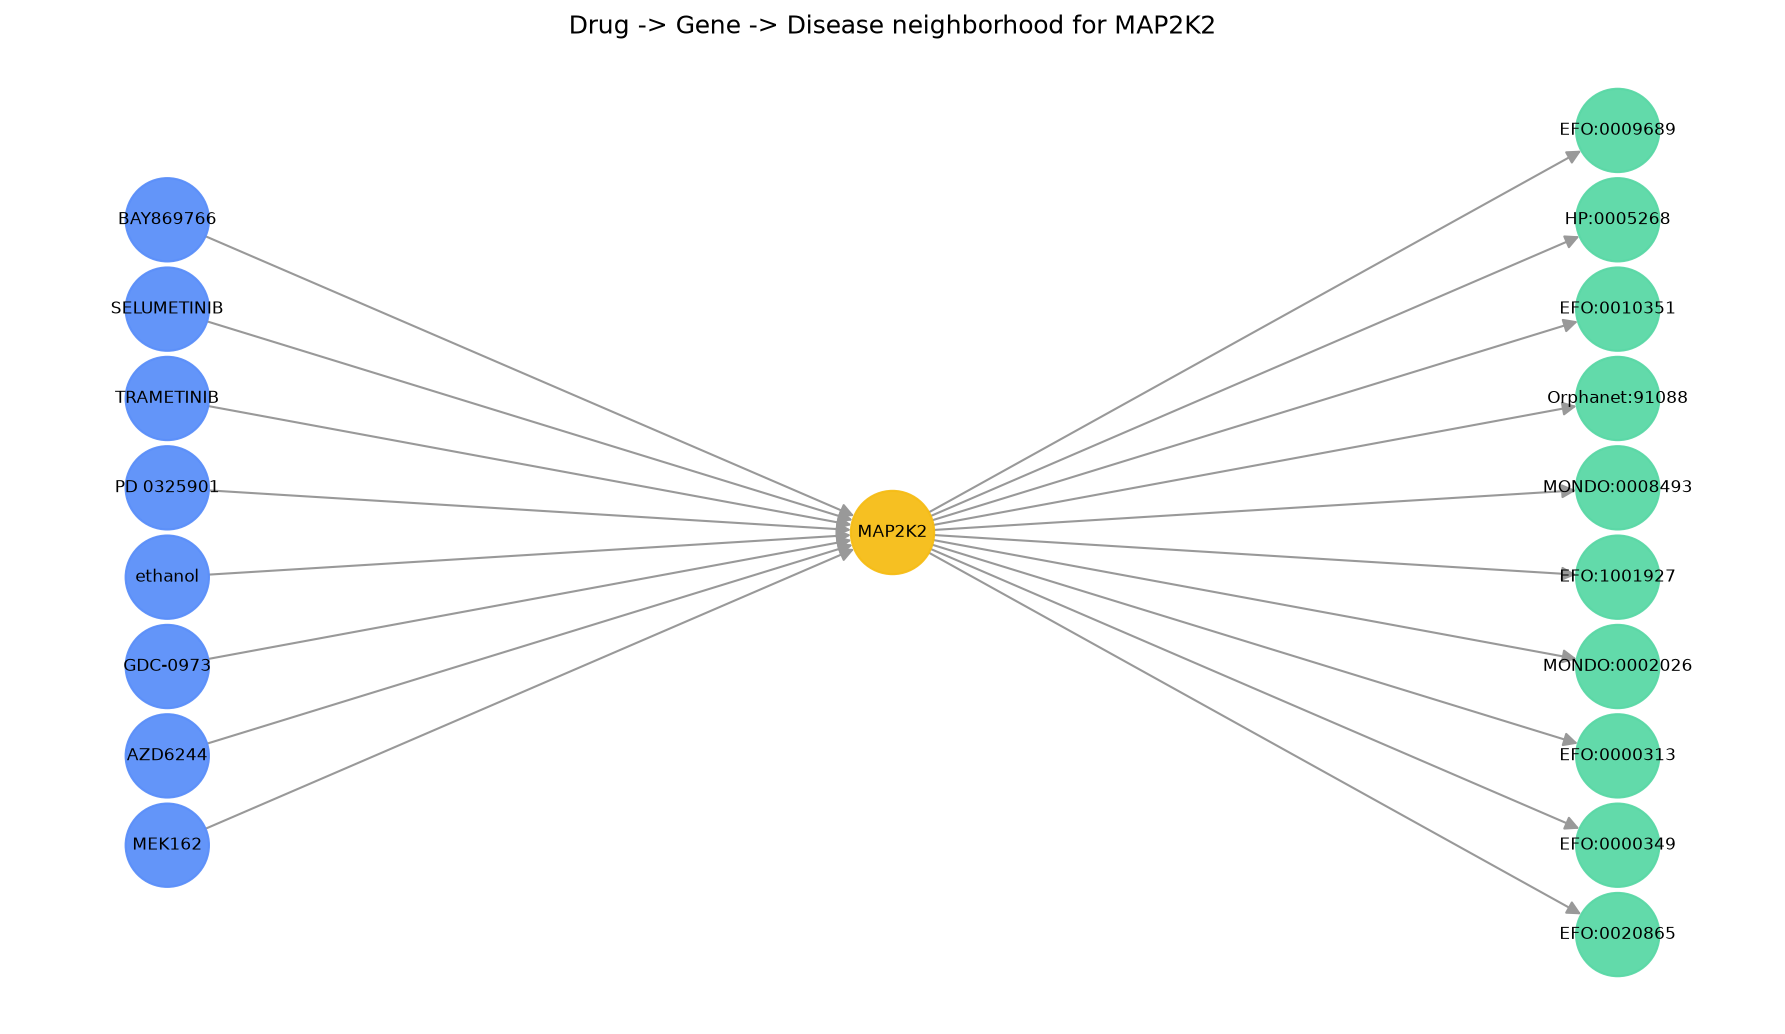
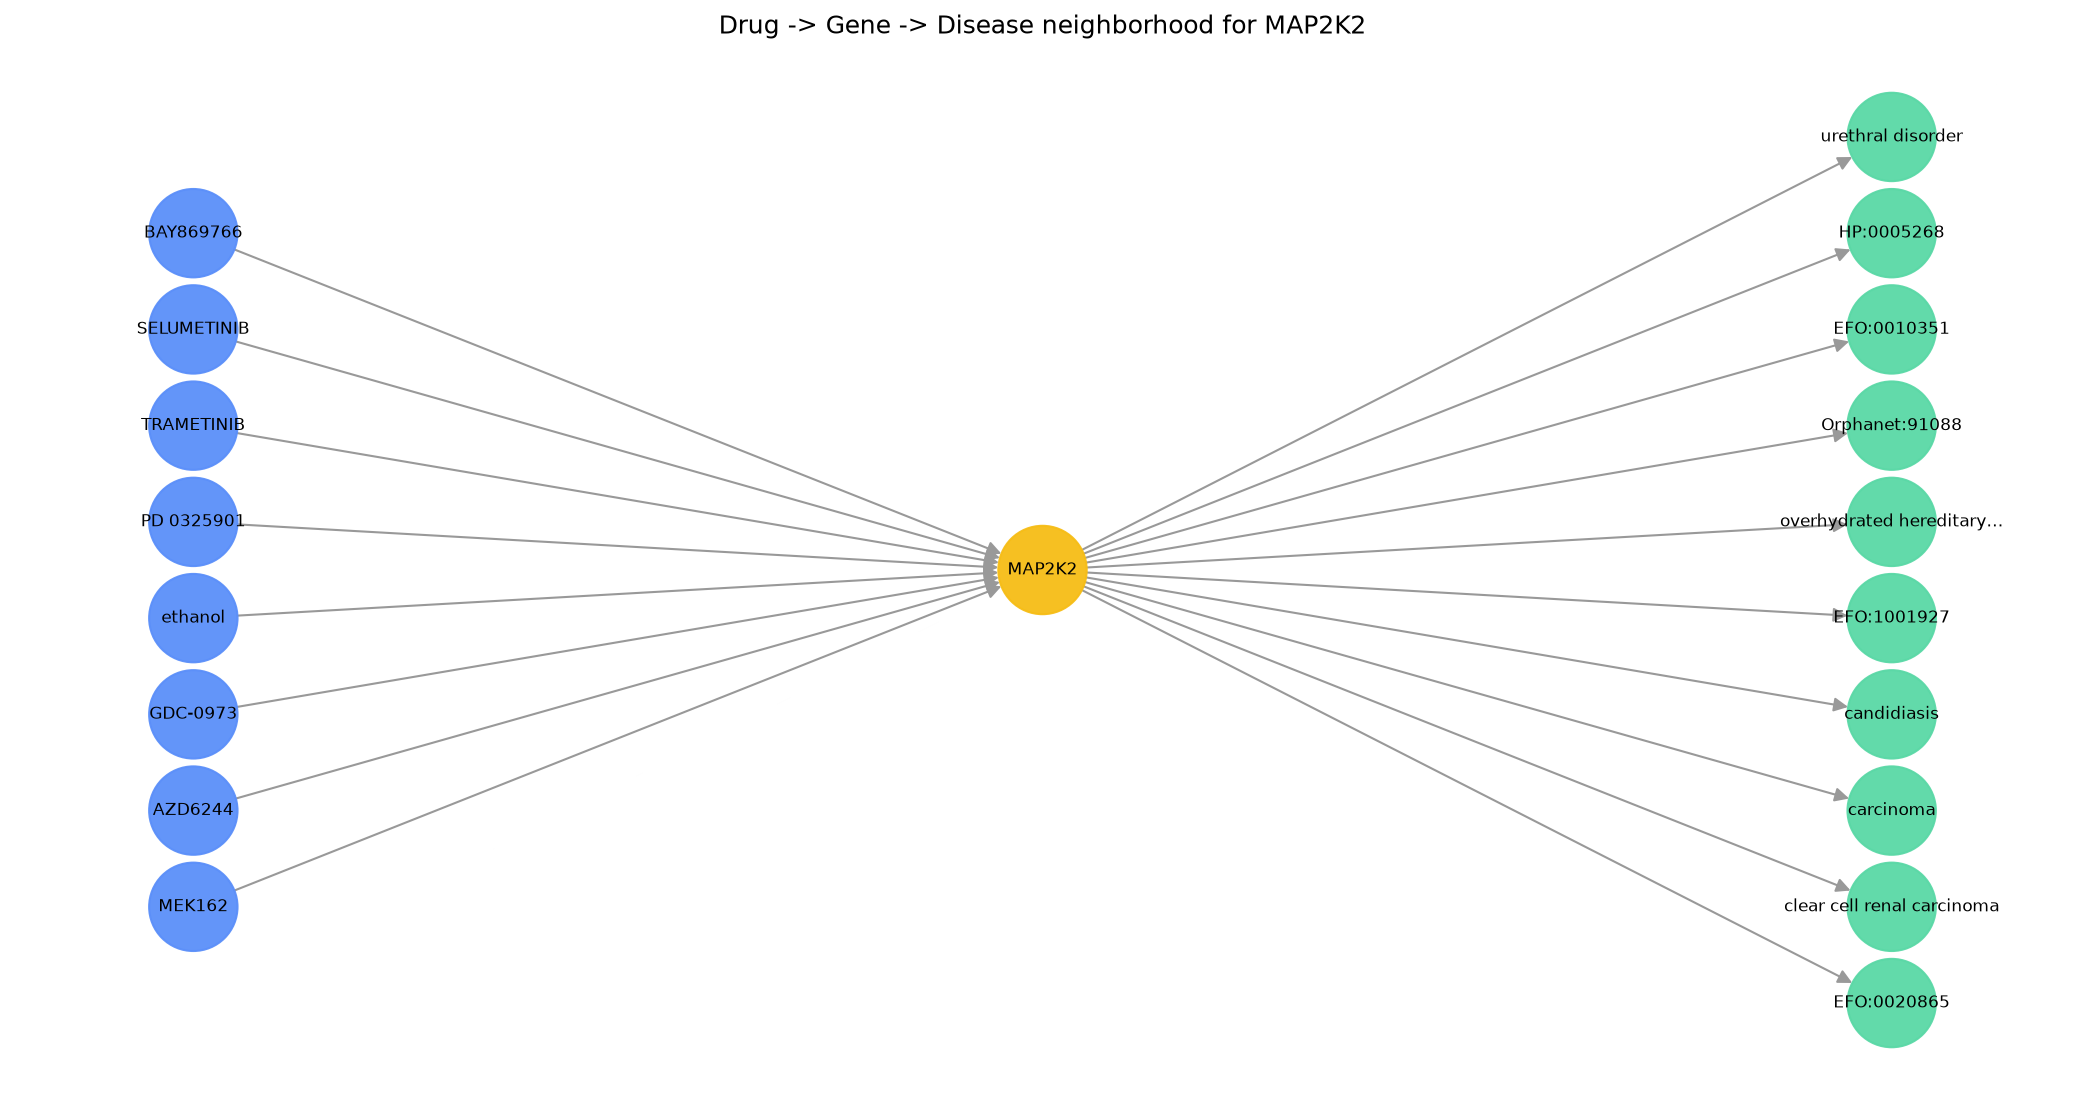
adjust subgraph to include disease names

diff --git a/src/visualize_subgraph.py b/src/visualize_subgraph.py
@@ -5,6 +5,9 @@ Draw the drug -> gene -> disease neighborhood for one gene from the generated ed
 and save it as a PNG in figures/. This makes the connected structure visible: drugs on
 the left, the anchor gene in the middle, diseases on the right.
 
+Disease labels come from output/nodes.csv (MONDO names after normalization/enrichment).
+Unmapped ids (where name equals the CURIE) are shown with their ontology prefix.
+
 Run from the project root, for example:
   python src/visualize_subgraph.py --gene NCBIGene:6416
   python src/visualize_subgraph.py --gene NCBIGene:6416 --max-diseases 10 --max-drugs 8
@@ -14,29 +17,50 @@ NCBIGene:6416 is MAP2K2 (MEK2), a well-connected gene in the sample.
 
 import argparse
 import os
-import pandas as pd
-import networkx as nx
+import textwrap
+
 import matplotlib
 matplotlib.use("Agg")  # no display needed; write straight to file
 import matplotlib.pyplot as plt
+import networkx as nx
+import pandas as pd
 
 EDGES = "output/edges.csv"
+NODES = "output/nodes.csv"
 FIG_DIR = "figures"
 
 
 def short(label, keep_prefix=False):
-    """Trim the source prefix so labels read cleanly.
-
-    DRUG_NAME:TRAMETINIB -> TRAMETINIB. For diseases the ontology prefix is meaningful
-    (EFO vs MONDO), so keep_prefix=True leaves EFO:0020865 intact.
-    """
+    """Trim the source prefix so labels read cleanly."""
     if keep_prefix:
         return label
     return label.split(":", 1)[1] if ":" in label else label
 
 
+def load_node_names():
+    nodes = pd.read_csv(NODES, dtype=str)
+    return dict(zip(nodes["id"], nodes["name"].fillna(nodes["id"])))
+
+
+def display_label(node_id, node_names, kind, max_len=32):
+    """Prefer human-readable names from nodes.csv; fall back to CURIE form."""
+    name = node_names.get(node_id, node_id)
+    if kind == "disease":
+        if name and name != node_id:
+            label = name
+        else:
+            label = short(node_id, keep_prefix=True)
+    else:
+        label = name if name else short(node_id)
+
+    if len(label) > max_len:
+        return textwrap.shorten(label, width=max_len, placeholder="…")
+    return label
+
+
 def build(gene, max_drugs, max_diseases, gene_name):
     edges = pd.read_csv(EDGES, dtype=str)
+    node_names = load_node_names()
 
     drug_edges = edges[(edges["object"] == gene) &
                        (edges["knowledge_source"] == "DGIdb")].head(max_drugs)
@@ -47,39 +71,41 @@ def build(gene, max_drugs, max_diseases, gene_name):
         raise SystemExit(f"No edges found for {gene}. Check the id against output/edges.csv.")
 
     g = nx.DiGraph()
-    center = gene_name or short(gene)
-    g.add_node(center, kind="gene")
+    center = gene_name or display_label(gene, node_names, "gene")
+    g.add_node(gene, kind="gene", label=center)
 
     pos = {}
-    pos[center] = (0, 0)
+    pos[gene] = (0, 0)
 
     # drugs on the left
     drugs = list(drug_edges["subject"])
     for i, (_, row) in enumerate(drug_edges.iterrows()):
-        d = short(row["subject"])
-        g.add_node(d, kind="drug")
-        g.add_edge(d, center, label=row["source_relationship"])
+        drug_id = row["subject"]
+        g.add_node(drug_id, kind="drug",
+                   label=display_label(drug_id, node_names, "drug"))
+        g.add_edge(drug_id, gene, label=row["source_relationship"])
         y = (i - (len(drugs) - 1) / 2) * 1.0
-        pos[d] = (-3, y)
+        pos[drug_id] = (-3, y)
 
     # diseases on the right
     diseases = list(dis_edges["object"])
     for i, (_, row) in enumerate(dis_edges.iterrows()):
-        ds = short(row["object"], keep_prefix=True)
-        g.add_node(ds, kind="disease")
-        g.add_edge(center, ds, label="associated_with")
+        disease_id = row["object"]
+        g.add_node(disease_id, kind="disease",
+                   label=display_label(disease_id, node_names, "disease"))
+        g.add_edge(gene, disease_id, label="associated_with")
         y = (i - (len(diseases) - 1) / 2) * 1.0
-        pos[ds] = (3, y)
+        pos[disease_id] = (3, y)
 
-    # colors by kind
+    labels = {n: g.nodes[n]["label"] for n in g.nodes}
     color = {"drug": "#5B8FF9", "gene": "#F6BD16", "disease": "#5AD8A6"}
     node_colors = [color[g.nodes[n]["kind"]] for n in g.nodes]
 
-    plt.figure(figsize=(12, max(6, 0.5 * max(len(drugs), len(diseases)) + 2)))
-    nx.draw_networkx_nodes(g, pos, node_color=node_colors, node_size=1600, alpha=0.95)
+    plt.figure(figsize=(14, max(6, 0.55 * max(len(drugs), len(diseases)) + 2)))
+    nx.draw_networkx_nodes(g, pos, node_color=node_colors, node_size=1800, alpha=0.95)
     nx.draw_networkx_edges(g, pos, arrows=True, arrowsize=14, edge_color="#999999",
-                           node_size=1600)
-    nx.draw_networkx_labels(g, pos, font_size=8)
+                           node_size=1800)
+    nx.draw_networkx_labels(g, pos, labels=labels, font_size=8)
 
     plt.title(f"Drug -> Gene -> Disease neighborhood for {center}", fontsize=12)
     plt.axis("off")
@@ -88,6 +114,7 @@ def build(gene, max_drugs, max_diseases, gene_name):
     os.makedirs(FIG_DIR, exist_ok=True)
     out = os.path.join(FIG_DIR, f"subgraph_{short(gene)}.png")
     plt.savefig(out, dpi=150, bbox_inches="tight")
+    plt.close()
     print(f"wrote {out}")
     print(f"drugs shown: {len(drugs)}, diseases shown: {len(diseases)}")
 

diff --git a/README.md b/README.md
@@ -6,7 +6,7 @@ interoperable biomedical knowledge graphs. The interesting part here are
 the mapping decisions: where a source does not map cleanly onto Biolink, those judgment
 calls are documented in [mappings/mapping_decisions.md](mappings/mapping_decisions.md).
 
-   ![Drug-gene-disease neighborhood for MAP2K2](figures/subgraph_6416.png)
+   ![Drug-gene-disease neighborhood for MAP2K2 (disease names from MONDO enrichment)](figures/subgraph_6416.png)
 
 ## Demo
 
@@ -63,7 +63,10 @@ biolink_source_mapping/
 │   ├── mondo_normalize.py       # EFO/DOID/Orphanet -> MONDO via release xrefs
 │   ├── fetch_mondo_release.py   # download mondo_nodes.tsv from a MONDO release
 │   ├── validate.py              # confirm Biolink terms, print a summary
+│   ├── visualize_subgraph.py    # drug-gene-disease neighborhood figure
 │   └── requirements.txt
+├── figures/
+│   └── subgraph_6416.png        # demo neighborhood figure
 └── output/
     ├── nodes.csv                # Biolink entities
     ├── edges.csv                # Biolink triples
@@ -88,6 +91,9 @@ python src/map_to_biolink.py --hgnc hgnc_complete_set.txt --mondo-nodes data/mon
 
 # 3. validate and summarize
 python src/validate.py
+
+# 4. optional: regenerate the demo figure (uses disease names from nodes.csv)
+python src/visualize_subgraph.py --gene NCBIGene:6416
 ```
 
 Install `bmt` (the Biolink Model Toolkit, included in requirements) so validation checks